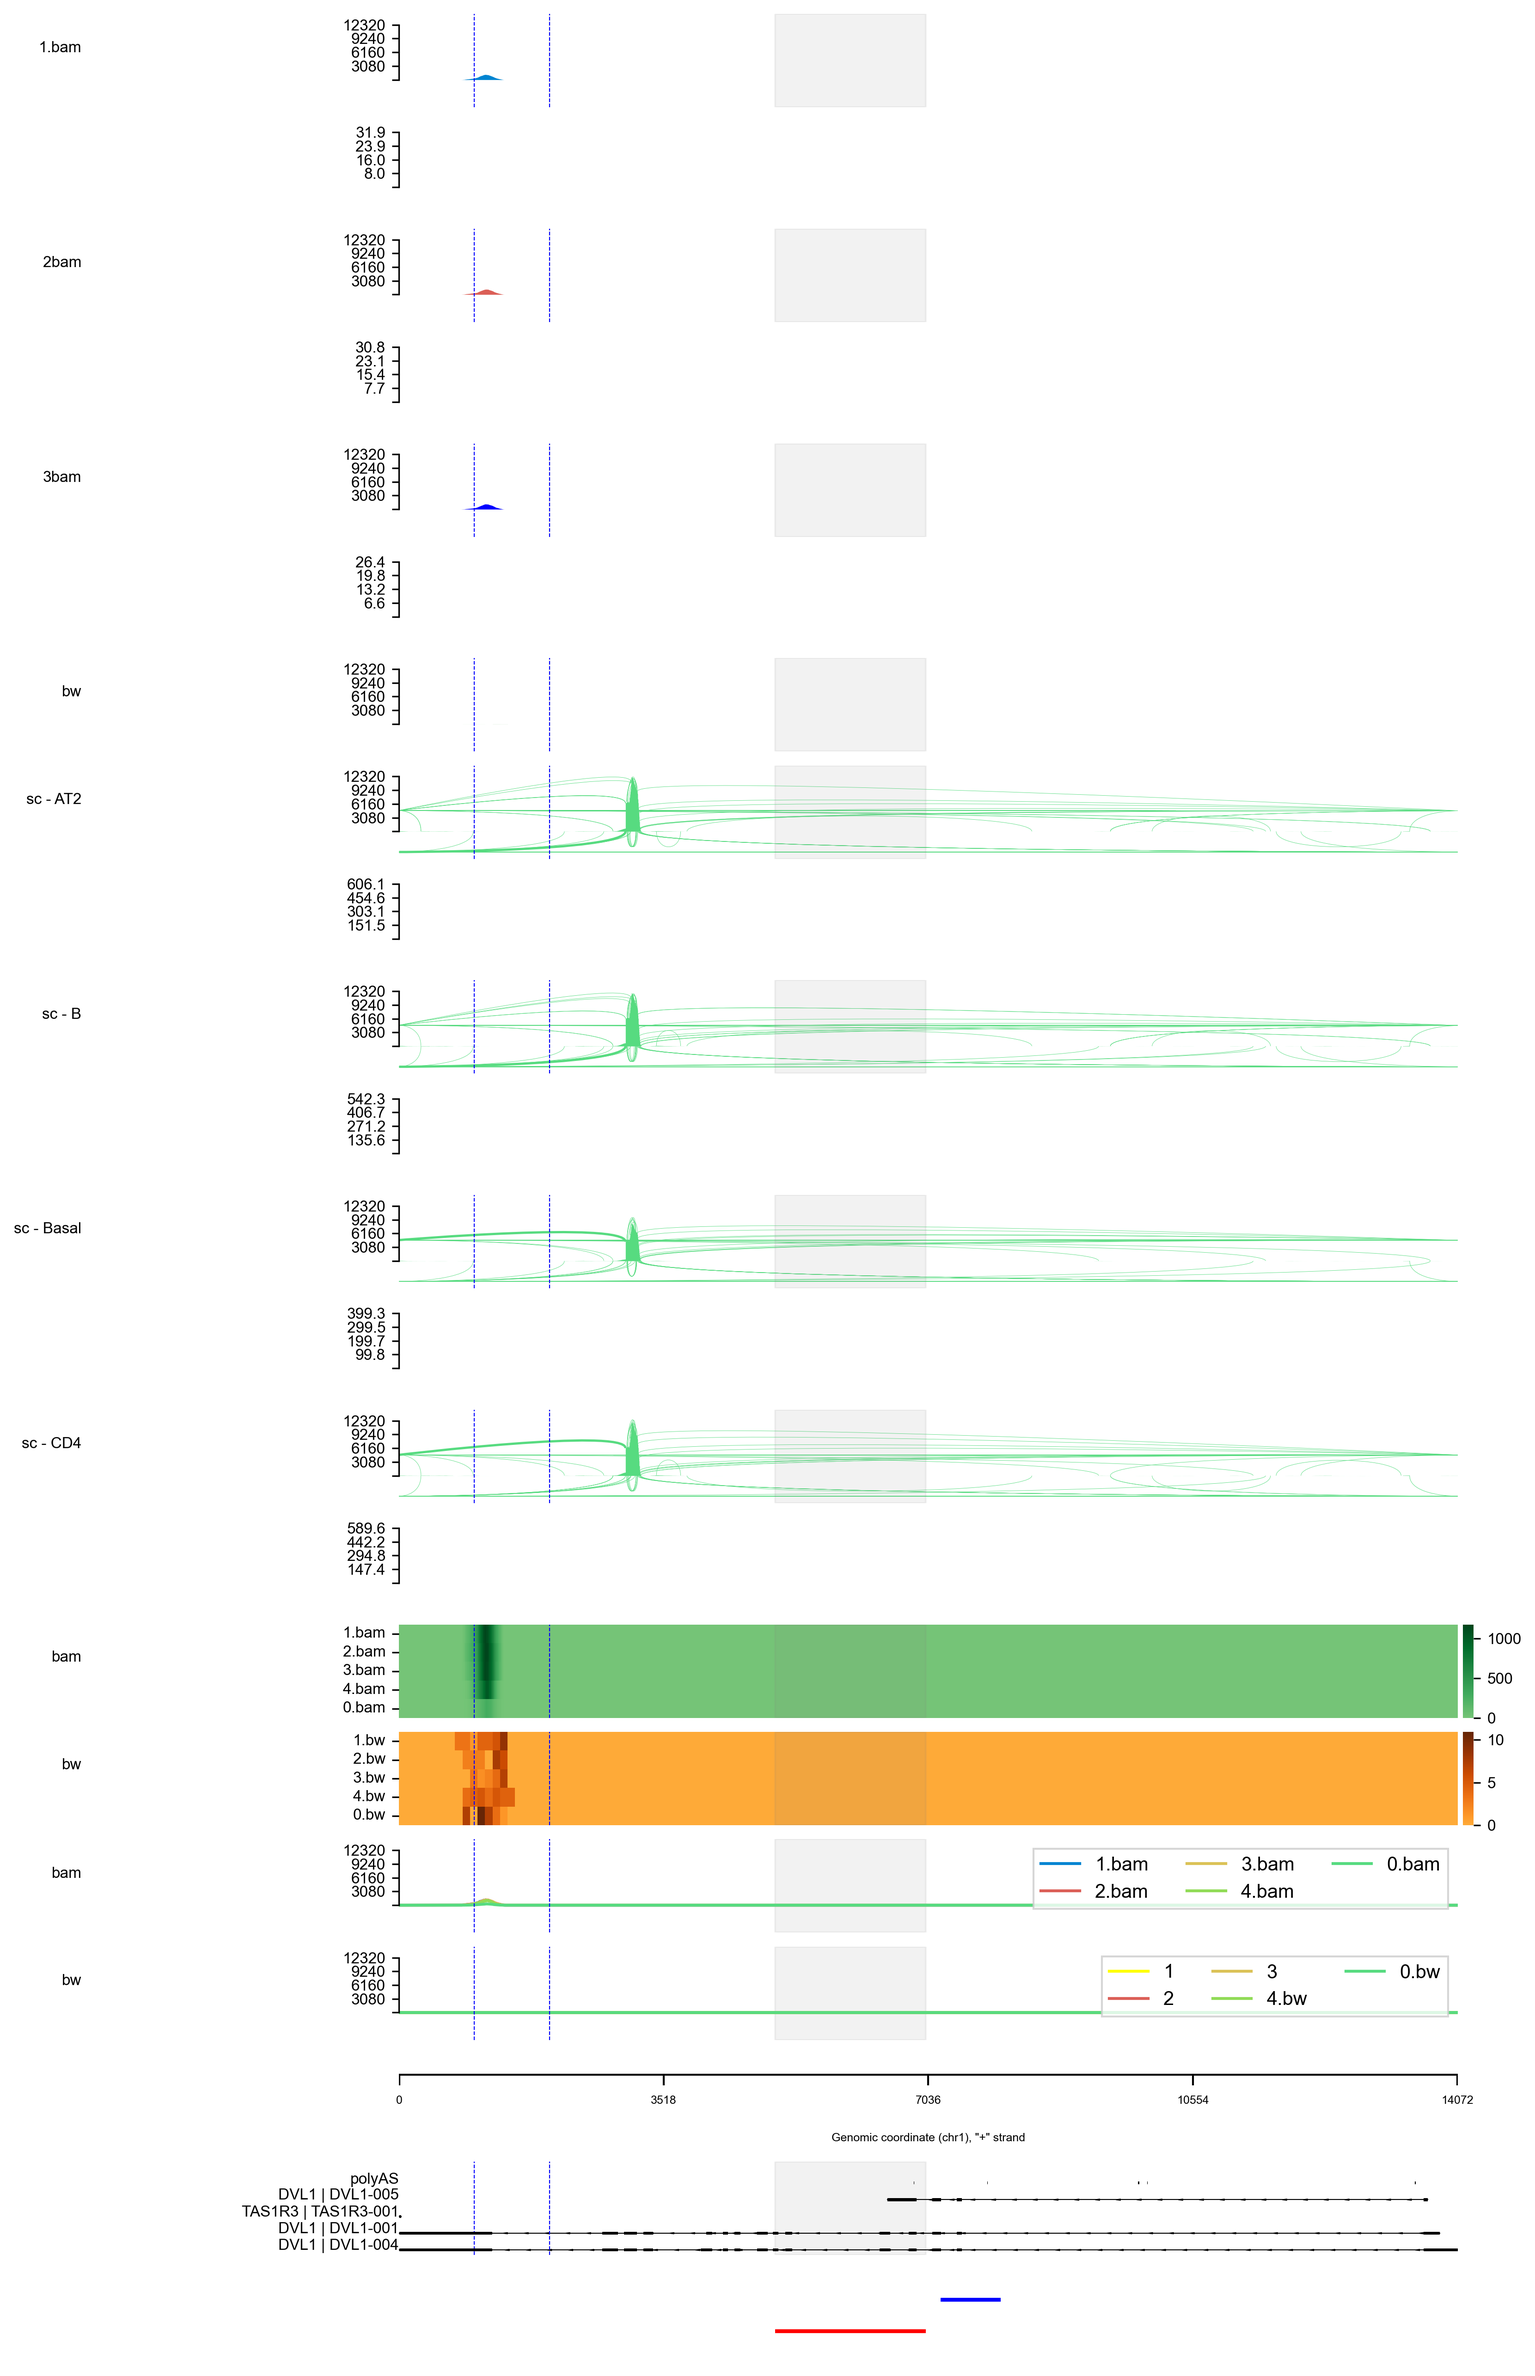
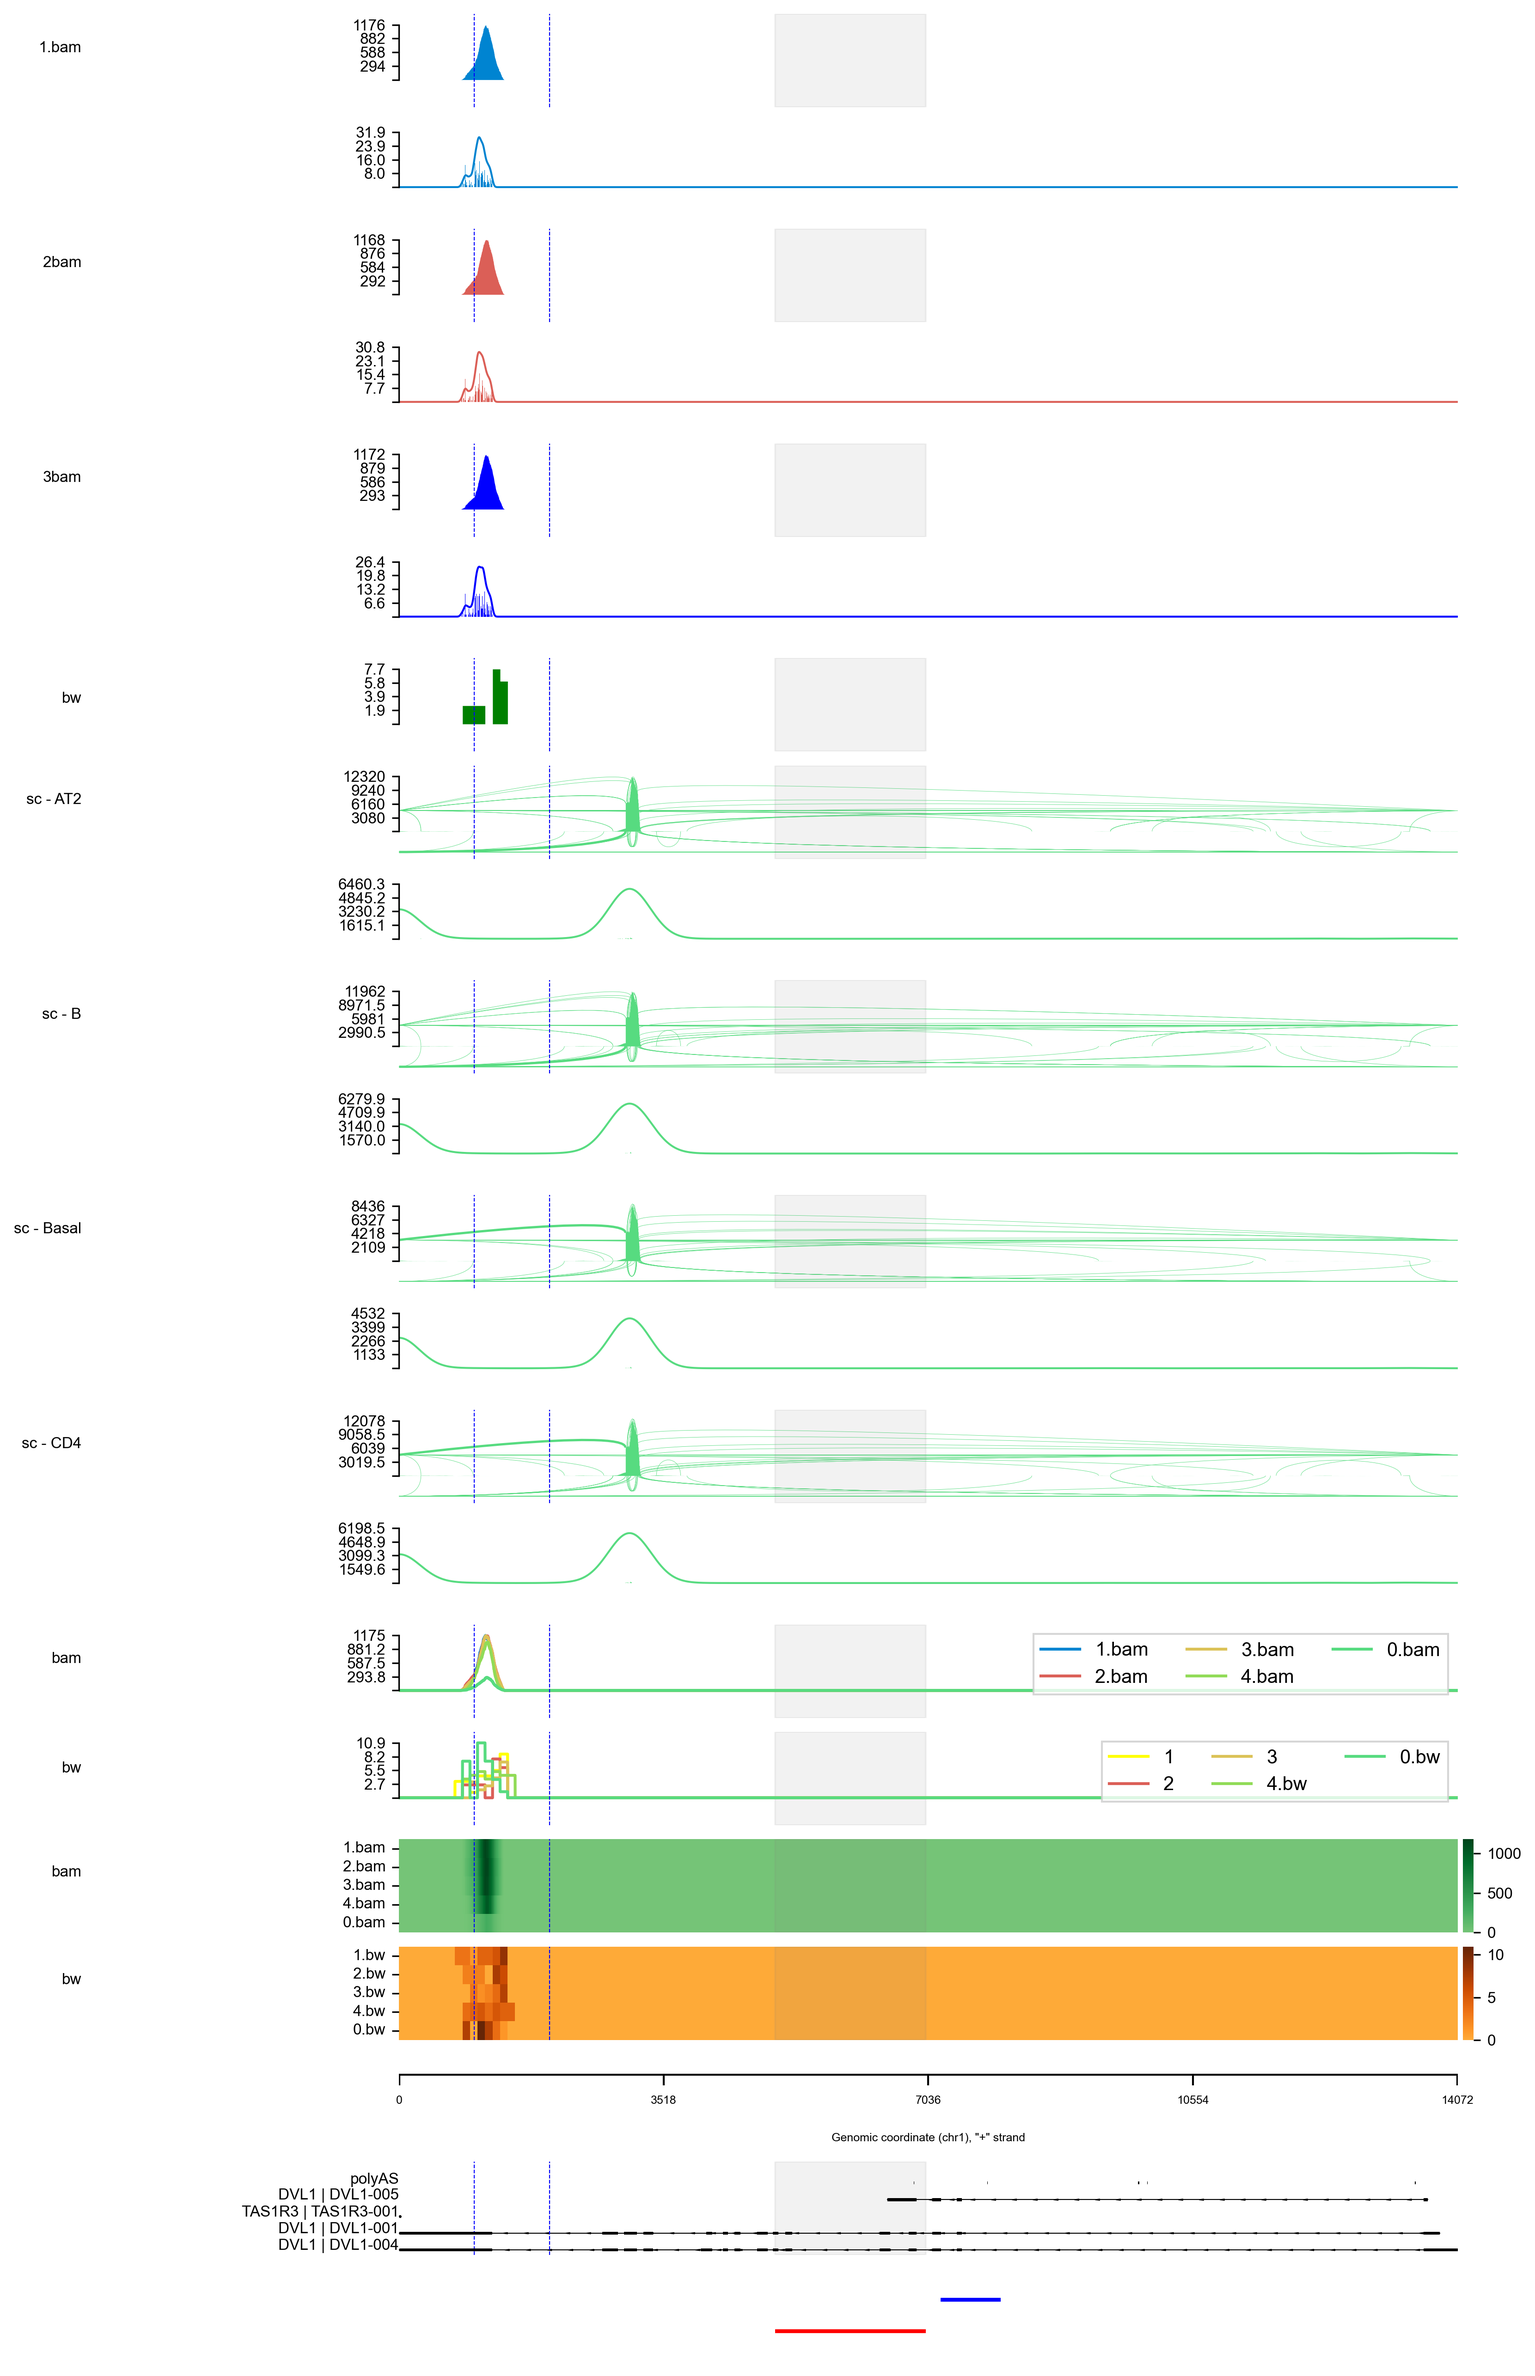
fix side-plot issues

diff --git a/sashimi/cli.py b/sashimi/cli.py
@@ -219,7 +219,7 @@ def process_file_list(infile: str, category: str = "density"):
                  show_default=True, help="Threshold to filter low abundance junctions")
 @optgroup.option("--show-side", is_flag=True, type=click.BOOL,
                  show_default=True, help="Whether to draw additional side plot")
-@optgroup.option("--side-strand", type=click.Choice(["All", "+", "-"]), default="All", show_default=True,
+@optgroup.option("--side-strand", type=click.Choice(["all", "+", "-"]), default="all", show_default=True,
                  help="Which strand kept for side plot, default use all")
 @optgroup.option("--show-junction-num", type=click.BOOL, is_flag=True, show_default=True,
                  help="Whether to show the number of junctions")

diff --git a/sashimi/plot_func.py b/sashimi/plot_func.py
@@ -725,15 +725,16 @@ def plot_side_plot(
     max_val = max(max_height, abs(min_height))
 
     for label, array_plot in zip(['plus', 'minus'], [plus, minus]):
-        if strand_choice is not None and label != strand_choice:
+        if strand_choice != "all" and label != strand_choice:
             continue
 
         array_hist = np.repeat(graph_coords, np.abs(array_plot).astype(np.int))
         try:
             kde = gaussian_kde(array_hist)
             fit_value = kde.pdf(graph_coords)
-        except Exception as err:
-            logger.warning(err)
+        except ValueError:
+            # logger.warning(err)
+            # logger.warning(traceback.format_exc())
             continue
 
         fit_value = fit_value / fit_value.max()

diff --git a/sashimi/file/Bam.py b/sashimi/file/Bam.py
@@ -286,9 +286,9 @@ class Bam(File):
 
                 start = read.reference_start + 1 if read.reference_start + 1 > region.start else region.start
                 end = read.reference_end + 1 if read.reference_end + 1 < region.end else region.end
-                if strand == "+" and read.reference_start >= region.start:
+                if strand == "+" and 0 <= start - region.start < len(plus):
                     plus[start - region.start] += 1
-                elif strand == "-" and read.reference_end <= region.end:
+                elif strand == "-" and 0 <= end - region.start < len(minus):
                     minus[end - region.start] += 1
 
             for k, v in spanned_junctions.items():

diff --git a/sashimi/plot.py b/sashimi/plot.py
@@ -776,6 +776,7 @@ class Plot(object):
                 )
 
                 side_ax = plt.subplot(gs[curr_idx+1, 0])
+
                 plot_side_plot(
                     side_ax, p.obj[0],
                     graph_coords=self.graph_coords,
@@ -853,6 +854,8 @@ class Plot(object):
             )
         else:
             plt.show()
+
+        plt.close()
 
         return self
 
